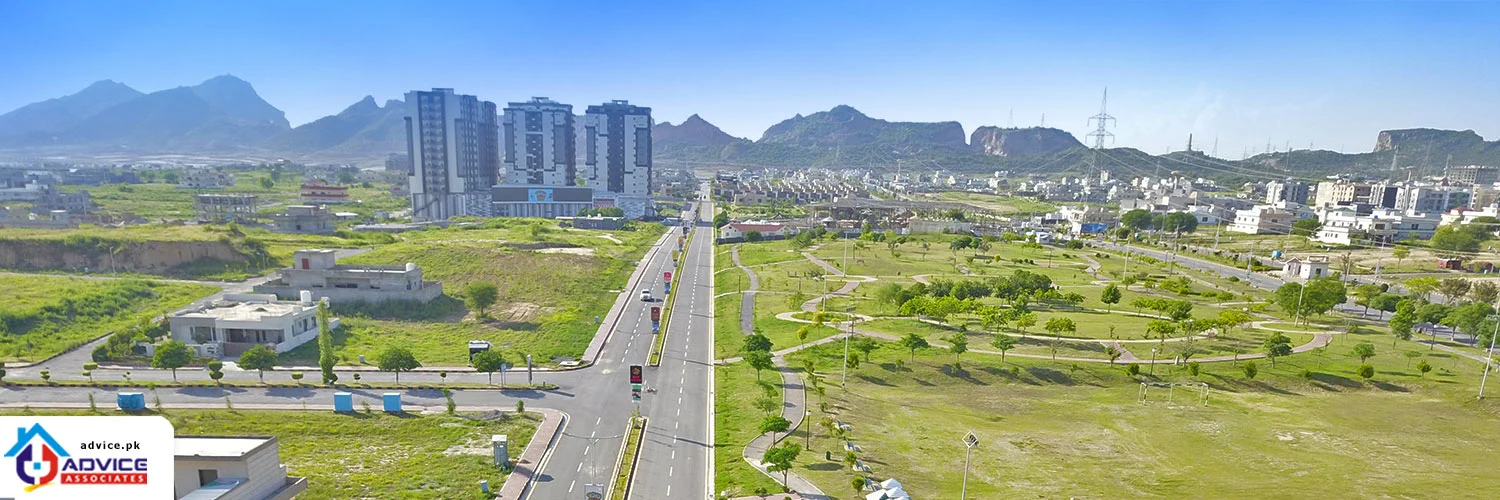
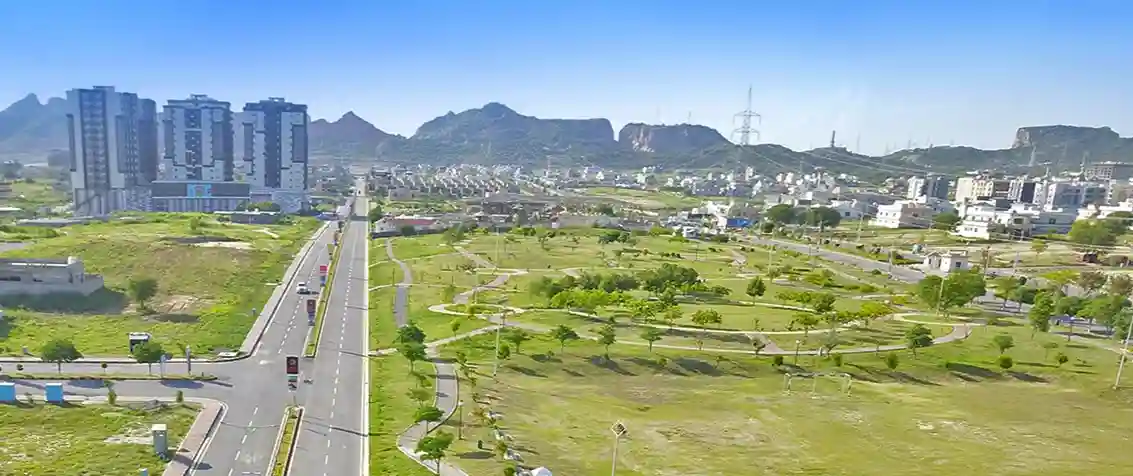
added sitemap and fixed the images extentions to webp bug.

diff --git a/client/frontend/src/components/Slider/Slider.jsx b/client/frontend/src/components/Slider/Slider.jsx
@@ -4,8 +4,8 @@ import "swiper/css";
 import "swiper/css/effect-fade";
 import { Autoplay, EffectFade } from "swiper/modules";
 import banner1 from "../../assets/images/banner1.jpg";
-import banner2 from "../../assets/images/banner2.jpg";
-import banner3 from "../../assets/images/banner3.jpg";
+import banner2 from "../../assets/images/banner2.webp";
+import banner3 from "../../assets/images/banner3.webp";
 import banner4 from "../../assets/images/banner4.jpg";
 import banner5 from "../../assets/images/banner5.webp";
 import "./Slider.css";

diff --git a/client/frontend/src/components/Static/KeyFactsBlock/KeyFactsBlock.jsx b/client/frontend/src/components/Static/KeyFactsBlock/KeyFactsBlock.jsx
@@ -6,8 +6,8 @@ import "swiper/css";
 import "swiper/css/navigation";
 import "swiper/css/pagination";
 import banner1 from "../../../assets/images/banner1.jpg";
-import banner2 from "../../../assets/images/banner2.jpg";
-import banner3 from "../../../assets/images/banner3.jpg";
+import banner2 from "../../../assets/images/banner2.webp";
+import banner3 from "../../../assets/images/banner3.webp";
 import banner4 from "../../../assets/images/banner4.jpg";
 
 const keyFacts = [

diff --git a/client/frontend/src/components/Static/WhyChoose/WhyChoose.jsx b/client/frontend/src/components/Static/WhyChoose/WhyChoose.jsx
@@ -4,7 +4,7 @@ import { useNavigate } from "react-router-dom";
 import care1 from "../../../assets/images/oldwomen.webp";
 import care2 from "../../../assets/images/oldwomen1.webp";
 import dna from "../../../assets/images/dna.jpg";
-import community from "../../../assets/images/childcommunity.jpg";
+import community from "../../../assets/images/childcommunity.webp";
 
 const WhyChoose = () => {
   const navigate = useNavigate();

diff --git a/client/frontend/src/pages/GalleryPage/GalleryData.js b/client/frontend/src/pages/GalleryPage/GalleryData.js
@@ -2,7 +2,7 @@ import image1 from "../../assets/images/image1.jpg";
 import image2 from "../../assets/images/image2.jpg";
 import image3 from "../../assets/images/image3.jpg";
 import image4 from "../../assets/images/image4.jpg";
-import image6 from "../../assets/images/image6.jpg";
+import image6 from "../../assets/images/image6.webp";
 import image7 from "../../assets/images/image7.jpg";
 
 export const photos = [
